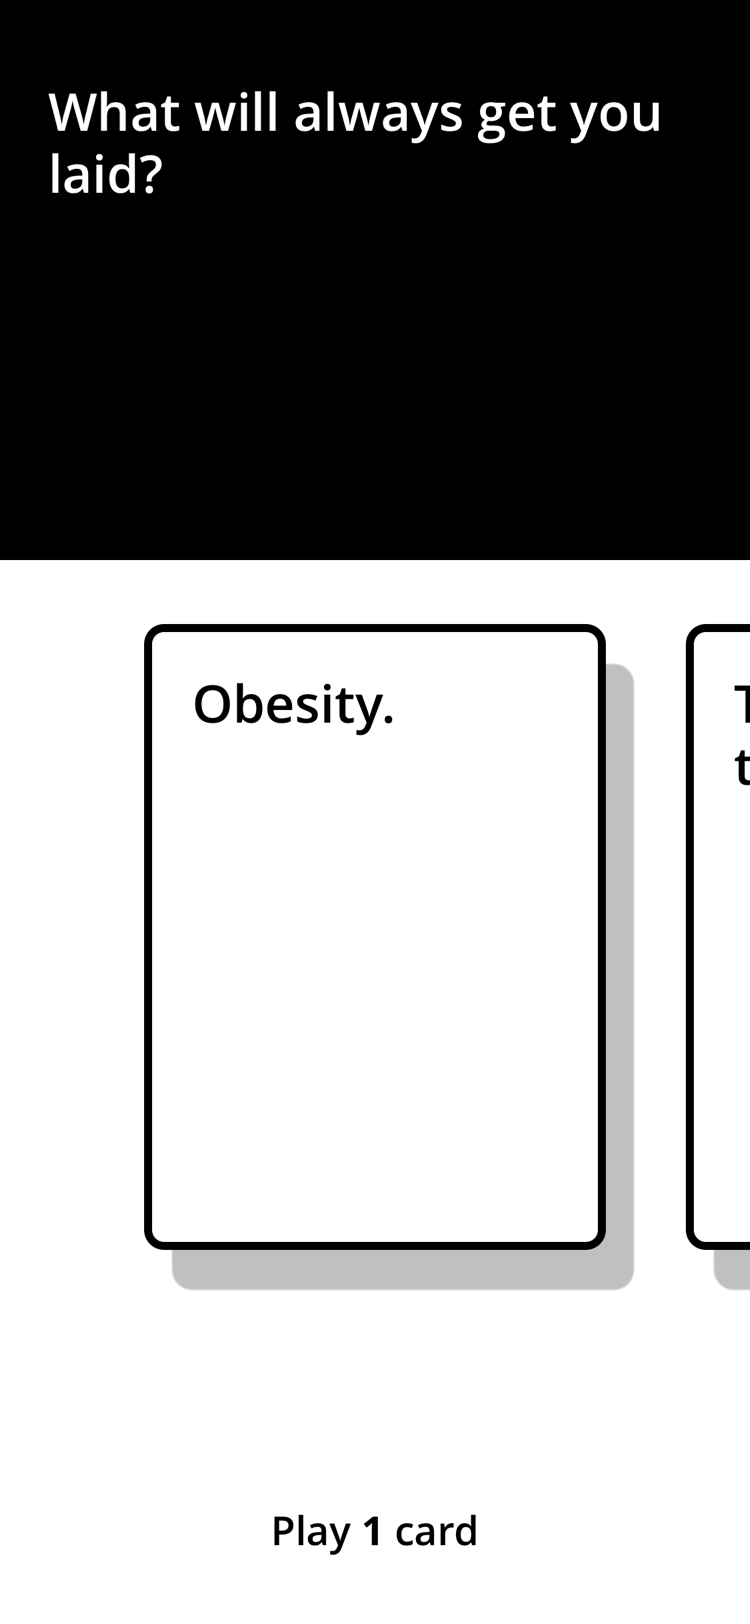
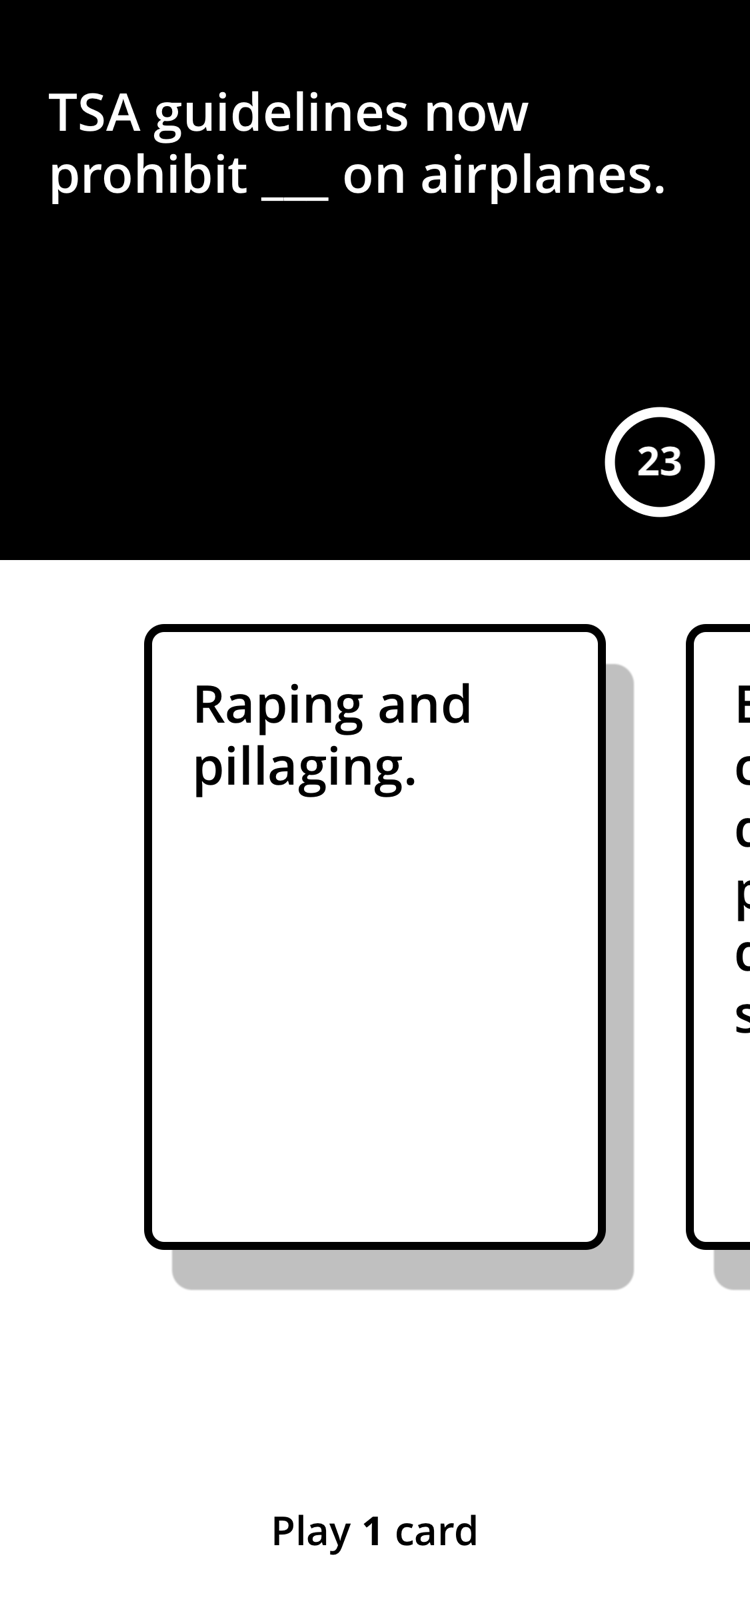
Added Timer
Timer is set to 20 seconds + (amount of cards to play TIMES 3 )

diff --git a/Cards Against Humanity.framer/framer/framer.vekter.js b/Cards Against Humanity.framer/framer/framer.vekter.js
@@ -1,1 +1,2 @@
-(function(scope) {var GameScreen = new Layer({"name":"GameScreen","backgroundColor":"rgba(255,255,255,1)","width":375,"x":840,"height":812,"constraintValues":{"left":840,"height":812,"heightFactor":1,"width":375,"widthFactor":1},"blending":"normal","clip":true,"borderStyle":"solid"});var blackCard = new Layer({"parent":GameScreen,"name":"blackCard","backgroundColor":"#000000","width":375,"height":280,"constraintValues":{"height":280,"centerAnchorX":0.5,"width":375,"right":0,"centerAnchorY":0.17241379310344829},"blending":"normal","clip":false,"borderStyle":"solid"});var __layer_0__ = new TextLayer({"parent":blackCard,"backgroundColor":null,"width":327,"x":24,"styledText":{"blocks":[{"inlineStyles":[{"startIndex":0,"endIndex":9,"css":{"fontSize":"26px","WebkitTextFillColor":"hsl(0, 0%, 100%)","letterSpacing":"0px","fontWeight":400,"lineHeight":"1.2","tabSize":4,"fontFamily":"\"OpenSans-Semibold\", sans-serif"}}],"text":"Card Text"}]},"height":216,"constraintValues":{"left":24,"height":216,"centerAnchorX":0.5,"width":327,"right":24,"top":40,"centerAnchorY":0.51071428571428568},"blending":"normal","autoSize":false,"y":40});var playCardsText = new TextLayer({"parent":GameScreen,"name":"playCardsText","backgroundColor":null,"width":335,"x":20,"styledText":{"blocks":[{"inlineStyles":[{"startIndex":0,"endIndex":5,"css":{"fontSize":"20px","WebkitTextFillColor":"#000000","letterSpacing":"0px","fontWeight":400,"lineHeight":"1.2","tabSize":4,"fontFamily":"\"OpenSans-Semibold\", sans-serif"}},{"startIndex":5,"endIndex":15,"css":{"fontSize":"20px","WebkitTextFillColor":"#000000","letterSpacing":"0px","fontWeight":700,"lineHeight":"1.2","tabSize":4,"fontFamily":"\"OpenSans-Bold\", \"Open Sans\", sans-serif"}},{"startIndex":15,"endIndex":25,"css":{"fontSize":"20px","WebkitTextFillColor":"#000000","letterSpacing":"0px","fontWeight":400,"lineHeight":"1.2","tabSize":4,"fontFamily":"\"OpenSans-Semibold\", sans-serif"}}],"text":"Play {numCards} card{plu}"}],"alignment":"center"},"height":24,"constraintValues":{"left":20,"height":24,"centerAnchorX":0.5,"width":335,"bottom":35,"right":20,"top":null,"centerAnchorY":0.94211822660098521},"blending":"normal","autoSize":false,"y":753});var ActionButton = new Layer({"parent":GameScreen,"name":"ActionButton","backgroundColor":"rgb(0, 0, 0)","width":335,"x":20,"height":54,"constraintValues":{"left":20,"height":54,"centerAnchorX":0.5,"width":335,"bottom":20,"right":20,"top":null,"centerAnchorY":0.94211822660098521},"blending":"normal","borderRadius":16,"opacity":0,"clip":false,"borderStyle":"solid","y":738});var __layer_1__ = new TextLayer({"parent":ActionButton,"backgroundColor":null,"width":68,"x":133,"styledText":{"blocks":[{"inlineStyles":[{"startIndex":0,"endIndex":6,"css":{"fontSize":"20px","WebkitTextFillColor":"hsl(0, 0%, 100%)","whiteSpace":"pre","fontWeight":400,"letterSpacing":"0px","tabSize":4,"fontFamily":"\"OpenSans-Semibold\", sans-serif","lineHeight":"1.2"}}],"text":"Button"}],"alignment":"center"},"height":24,"constraintValues":{"left":null,"height":24,"centerAnchorX":0.49850746268656715,"width":68,"top":null,"centerAnchorY":0.5},"blending":"normal","autoSize":true,"y":15});var __layer_2__ = new Layer({"backgroundColor":"rgba(255,255,255,1)","width":231,"x":492,"height":313,"constraintValues":null,"blending":"normal","clip":true,"borderStyle":"solid"});var whiteCard = new Layer({"parent":__layer_2__,"name":"whiteCard","shadows":[{"spread":0,"x":14,"type":"box","y":20,"blur":1,"color":"rgba(0,0,0,0.25)"}],"borderWidth":4,"backgroundColor":"hsl(0, 0%, 100%)","width":231,"borderColor":"#000000","height":313,"constraintValues":{"height":313,"centerAnchorX":0.5,"width":231,"bottom":0,"right":0,"centerAnchorY":0.5},"blending":"normal","borderRadius":10,"clip":false,"borderStyle":"solid"});var __layer_3__ = new TextLayer({"parent":whiteCard,"backgroundColor":null,"width":183,"x":24,"styledText":{"blocks":[{"inlineStyles":[{"startIndex":0,"endIndex":9,"css":{"fontSize":"26px","WebkitTextFillColor":"#000000","letterSpacing":"0px","fontWeight":400,"lineHeight":"1.2","tabSize":4,"fontFamily":"\"OpenSans-Semibold\", sans-serif"}}],"text":"Card Text"}]},"height":265,"constraintValues":{"left":24,"height":265,"centerAnchorX":0.48917748917748916,"width":183,"bottom":24,"right":24,"top":24,"centerAnchorY":0.48562300319488816},"blending":"normal","autoSize":false,"y":24});var UndoButton = new Layer({"name":"UndoButton","backgroundColor":"#DDDDDD","width":231,"x":492,"height":54,"constraintValues":null,"blending":"normal","borderRadius":16,"clip":false,"borderStyle":"solid","y":344});var __layer_4__ = new TextLayer({"parent":UndoButton,"backgroundColor":null,"width":54,"x":88,"styledText":{"blocks":[{"inlineStyles":[{"startIndex":0,"endIndex":4,"css":{"fontSize":"20px","WebkitTextFillColor":"#000000","whiteSpace":"pre","fontWeight":400,"letterSpacing":"0px","tabSize":4,"fontFamily":"\"OpenSans-Semibold\", sans-serif","lineHeight":"1.2"}}],"text":"Undo"}],"alignment":"center"},"height":24,"constraintValues":{"left":null,"height":24,"centerAnchorX":0.49850746268656715,"width":54,"top":null,"centerAnchorY":0.5},"blending":"normal","autoSize":true,"y":15});var setupScreen = new Layer({"name":"setupScreen","backgroundColor":"rgba(255,255,255,1)","width":375,"height":812,"constraintValues":{"height":812,"heightFactor":1,"width":375,"widthFactor":1},"blending":"normal","clip":true,"borderStyle":"solid"});var __layer_5__ = new TextLayer({"parent":setupScreen,"name":"namePromt","backgroundColor":null,"width":197,"x":89,"styledText":{"blocks":[{"inlineStyles":[{"startIndex":0,"endIndex":16,"css":{"fontSize":"20px","WebkitTextFillColor":"#000000","whiteSpace":"pre","fontWeight":400,"letterSpacing":"0px","tabSize":4,"fontFamily":"\"OpenSans-Semibold\", sans-serif","lineHeight":"1.2"}}],"text":"Gimme your name…"}],"alignment":"center"},"height":24,"constraintValues":{"left":null,"height":24,"centerAnchorX":0.5,"width":197,"top":111,"centerAnchorY":0.15147783251231528},"blending":"normal","autoSize":true,"y":111});var __layer_6__ = new Layer({"parent":setupScreen,"name":"joinButton","backgroundColor":"rgb(0, 0, 0)","width":335,"x":20,"height":54,"constraintValues":{"left":20,"height":54,"centerAnchorX":0.5,"width":335,"bottom":20,"right":20,"top":null,"centerAnchorY":0.94211822660098521},"blending":"normal","borderRadius":16,"clip":false,"borderStyle":"solid","y":738});var __layer_7__ = new TextLayer({"parent":__layer_6__,"backgroundColor":null,"width":38,"x":148,"styledText":{"blocks":[{"inlineStyles":[{"startIndex":0,"endIndex":4,"css":{"fontSize":"20px","WebkitTextFillColor":"hsl(0, 0%, 100%)","whiteSpace":"pre","fontWeight":400,"letterSpacing":"0px","tabSize":4,"fontFamily":"\"OpenSans-Semibold\", sans-serif","lineHeight":"1.2"}}],"text":"Join"}],"alignment":"center"},"height":24,"constraintValues":{"left":null,"height":24,"centerAnchorX":0.49850746268656715,"width":38,"top":null,"centerAnchorY":0.5},"blending":"normal","autoSize":true,"y":15});if(__layer_5__ !== undefined){__layer_5__.__framerInstanceInfo = {"framerClass":"TextLayer","hash":"#vekter|__layer_5__","vekterClass":"TextNode","text":"Gimme your name…"}};if(GameScreen !== undefined){GameScreen.__framerInstanceInfo = {"deviceName":"Apple iPhone X","framerClass":"Layer","hash":"#vekter|GameScreen","targetName":"GameScreen","vekterClass":"FrameNode","deviceType":"apple-iphone-x-space-gray"}};if(whiteCard !== undefined){whiteCard.__framerInstanceInfo = {"framerClass":"Layer","hash":"#vekter|whiteCard","targetName":"whiteCard","vekterClass":"FrameNode"}};if(__layer_7__ !== undefined){__layer_7__.__framerInstanceInfo = {"framerClass":"TextLayer","hash":"#vekter|__layer_7__","vekterClass":"TextNode","text":"Join"}};if(__layer_2__ !== undefined){__layer_2__.__framerInstanceInfo = {"hash":"#vekter|__layer_2__","vekterClass":"FrameNode","framerClass":"Layer"}};if(playCardsText !== undefined){playCardsText.__framerInstanceInfo = {"framerClass":"TextLayer","hash":"#vekter|playCardsText","targetName":"playCardsText","vekterClass":"TextNode","text":"Play {numCards} card{plu}"}};if(__layer_0__ !== undefined){__layer_0__.__framerInstanceInfo = {"framerClass":"TextLayer","hash":"#vekter|__layer_0__","vekterClass":"TextNode","text":"Card Text"}};if(UndoButton !== undefined){UndoButton.__framerInstanceInfo = {"framerClass":"Layer","hash":"#vekter|UndoButton","targetName":"UndoButton","vekterClass":"FrameNode"}};if(setupScreen !== undefined){setupScreen.__framerInstanceInfo = {"deviceName":"Apple iPhone X","framerClass":"Layer","hash":"#vekter|setupScreen","targetName":"setupScreen","vekterClass":"FrameNode","deviceType":"apple-iphone-x-space-gray"}};if(ActionButton !== undefined){ActionButton.__framerInstanceInfo = {"framerClass":"Layer","hash":"#vekter|ActionButton","targetName":"ActionButton","vekterClass":"FrameNode"}};if(__layer_1__ !== undefined){__layer_1__.__framerInstanceInfo = {"framerClass":"TextLayer","hash":"#vekter|__layer_1__","vekterClass":"TextNode","text":"Button"}};if(__layer_4__ !== undefined){__layer_4__.__framerInstanceInfo = {"framerClass":"TextLayer","hash":"#vekter|__layer_4__","vekterClass":"TextNode","text":"Undo"}};if(__layer_6__ !== undefined){__layer_6__.__framerInstanceInfo = {"hash":"#vekter|__layer_6__","vekterClass":"FrameNode","framerClass":"Layer"}};if(__layer_3__ !== undefined){__layer_3__.__framerInstanceInfo = {"framerClass":"TextLayer","hash":"#vekter|__layer_3__","vekterClass":"TextNode","text":"Card Text"}};if(blackCard !== undefined){blackCard.__framerInstanceInfo = {"framerClass":"Layer","hash":"#vekter|blackCard","targetName":"blackCard","vekterClass":"FrameNode"}};if (scope["__vekterVariables"]) { scope["__vekterVariables"].map(function(variable) { delete scope[variable] } ) };Object.assign(scope, {GameScreen, blackCard, playCardsText, ActionButton, whiteCard, UndoButton, setupScreen});scope["__vekterVariables"] = ["GameScreen", "blackCard", "playCardsText", "ActionButton", "whiteCard", "UndoButton", "setupScreen"];if (typeof Framer.CurrentContext.layout === 'function') {Framer.CurrentContext.layout()};})(window);
+(function(scope) {var GameScreen = new Layer({"name":"GameScreen","backgroundColor":"rgba(255,255,255,1)","width":375,"x":840,"height":812,"constraintValues":{"left":840,"height":812,"heightFactor":1,"width":375,"widthFactor":1},"blending":"normal","clip":true,"borderStyle":"solid"});var blackCard = new Layer({"parent":GameScreen,"name":"blackCard","backgroundColor":"#000000","width":375,"height":280,"constraintValues":{"height":280,"centerAnchorX":0.5,"width":375,"right":0,"centerAnchorY":0.17241379310344829},"blending":"normal","clip":false,"borderStyle":"solid"});var __layer_0__ = new TextLayer({"parent":blackCard,"backgroundColor":null,"width":327,"x":24,"styledText":{"blocks":[{"inlineStyles":[{"startIndex":0,"endIndex":9,"css":{"fontSize":"26px","WebkitTextFillColor":"hsl(0, 0%, 100%)","letterSpacing":"0px","fontWeight":400,"lineHeight":"1.2","tabSize":4,"fontFamily":"\"OpenSans-Semibold\", sans-serif"}}],"text":"Card Text"}]},"height":216,"constraintValues":{"left":24,"height":216,"centerAnchorX":0.5,"width":327,"right":24,"top":40,"centerAnchorY":0.51071428571428568},"blending":"normal","autoSize":false,"y":40});var countDownFrame = new Layer({"parent":blackCard,"name":"countDownFrame","backgroundColor":null,"width":50,"x":305,"height":50,"constraintValues":{"left":null,"height":50,"centerAnchorX":0.88,"width":50,"bottom":24,"right":20,"top":null,"centerAnchorY":0.82499999999999996},"blending":"normal","clip":false,"borderStyle":"solid","y":206});var __layer_1__ = new SVGLayer({"parent":countDownFrame,"name":".SVGLayer","backgroundColor":null,"width":50,"stroke":"hsl(0, 0%, 100%)","strokeWidth":5,"htmlIntrinsicSize":{"height":50,"width":50},"rotation":null,"height":50,"opacity":null,"svg":"<svg xmlns=\"http:\/\/www.w3.org\/2000\/svg\" width=\"50\" height=\"50\"><path d=\"M 25 0 C 38.807 0 50 11.193 50 25 C 50 38.807 38.807 50 25 50 C 11.193 50 0 38.807 0 25 C 0 11.193 11.193 0 25 0 Z\" id=\"id_VVLZ_nE5M\" fill=\"transparent\" stroke-width=\"5\" stroke=\"hsl(0, 0%, 100%)\" name=\"countDown\"><\/path><\/svg>"});var countDown;if(__layer_1__.elements !== undefined){countDown = __layer_1__.elements["id_VVLZ_nE5M"];
+};var countDownNumber = new TextLayer({"parent":countDownFrame,"name":"countDownNumber","backgroundColor":null,"width":24,"x":13,"styledText":{"blocks":[{"inlineStyles":[{"startIndex":0,"endIndex":2,"css":{"fontSize":"20px","WebkitTextFillColor":"hsl(0, 0%, 100%)","whiteSpace":"pre","fontWeight":700,"letterSpacing":"0px","tabSize":4,"fontFamily":"\"OpenSans-Bold\", \"Open Sans\", sans-serif","lineHeight":"1.2"}}],"text":"10"}],"alignment":"center"},"height":24,"constraintValues":{"left":null,"height":24,"centerAnchorX":0.5,"width":24,"top":null,"centerAnchorY":0.47999999999999998},"blending":"normal","autoSize":true,"y":12});var playCardsText = new TextLayer({"parent":GameScreen,"name":"playCardsText","backgroundColor":null,"width":335,"x":20,"styledText":{"blocks":[{"inlineStyles":[{"startIndex":0,"endIndex":5,"css":{"fontSize":"20px","WebkitTextFillColor":"#000000","letterSpacing":"0px","fontWeight":400,"lineHeight":"1.2","tabSize":4,"fontFamily":"\"OpenSans-Semibold\", sans-serif"}},{"startIndex":5,"endIndex":15,"css":{"fontSize":"20px","WebkitTextFillColor":"#000000","letterSpacing":"0px","fontWeight":700,"lineHeight":"1.2","tabSize":4,"fontFamily":"\"OpenSans-Bold\", \"Open Sans\", sans-serif"}},{"startIndex":15,"endIndex":25,"css":{"fontSize":"20px","WebkitTextFillColor":"#000000","letterSpacing":"0px","fontWeight":400,"lineHeight":"1.2","tabSize":4,"fontFamily":"\"OpenSans-Semibold\", sans-serif"}}],"text":"Play {numCards} card{plu}"}],"alignment":"center"},"height":24,"constraintValues":{"left":20,"height":24,"centerAnchorX":0.5,"width":335,"bottom":35,"right":20,"top":null,"centerAnchorY":0.94211822660098521},"blending":"normal","autoSize":false,"y":753});var ActionButton = new Layer({"parent":GameScreen,"name":"ActionButton","backgroundColor":"rgb(0, 0, 0)","width":335,"x":20,"height":54,"constraintValues":{"left":20,"height":54,"centerAnchorX":0.5,"width":335,"bottom":20,"right":20,"top":null,"centerAnchorY":0.94211822660098521},"blending":"normal","borderRadius":16,"opacity":0,"clip":false,"borderStyle":"solid","y":738});var __layer_2__ = new TextLayer({"parent":ActionButton,"backgroundColor":null,"width":68,"x":133,"styledText":{"blocks":[{"inlineStyles":[{"startIndex":0,"endIndex":6,"css":{"fontSize":"20px","WebkitTextFillColor":"hsl(0, 0%, 100%)","whiteSpace":"pre","fontWeight":400,"letterSpacing":"0px","tabSize":4,"fontFamily":"\"OpenSans-Semibold\", sans-serif","lineHeight":"1.2"}}],"text":"Button"}],"alignment":"center"},"height":24,"constraintValues":{"left":null,"height":24,"centerAnchorX":0.49850746268656715,"width":68,"top":null,"centerAnchorY":0.5},"blending":"normal","autoSize":true,"y":15});var __layer_3__ = new Layer({"backgroundColor":"rgba(255,255,255,1)","width":231,"x":492,"height":313,"constraintValues":null,"blending":"normal","clip":true,"borderStyle":"solid"});var whiteCard = new Layer({"parent":__layer_3__,"name":"whiteCard","shadows":[{"spread":0,"x":14,"type":"box","y":20,"blur":1,"color":"rgba(0,0,0,0.25)"}],"borderWidth":4,"backgroundColor":"hsl(0, 0%, 100%)","width":231,"borderColor":"#000000","height":313,"constraintValues":{"height":313,"centerAnchorX":0.5,"width":231,"bottom":0,"right":0,"centerAnchorY":0.5},"blending":"normal","borderRadius":10,"clip":false,"borderStyle":"solid"});var __layer_4__ = new TextLayer({"parent":whiteCard,"backgroundColor":null,"width":183,"x":24,"styledText":{"blocks":[{"inlineStyles":[{"startIndex":0,"endIndex":9,"css":{"fontSize":"26px","WebkitTextFillColor":"#000000","letterSpacing":"0px","fontWeight":400,"lineHeight":"1.2","tabSize":4,"fontFamily":"\"OpenSans-Semibold\", sans-serif"}}],"text":"Card Text"}]},"height":265,"constraintValues":{"left":24,"height":265,"centerAnchorX":0.48917748917748916,"width":183,"bottom":24,"right":24,"top":24,"centerAnchorY":0.48562300319488816},"blending":"normal","autoSize":false,"y":24});var UndoButton = new Layer({"name":"UndoButton","backgroundColor":"#DDDDDD","width":231,"x":492,"height":54,"constraintValues":null,"blending":"normal","borderRadius":16,"clip":false,"borderStyle":"solid","y":344});var __layer_5__ = new TextLayer({"parent":UndoButton,"backgroundColor":null,"width":54,"x":88,"styledText":{"blocks":[{"inlineStyles":[{"startIndex":0,"endIndex":4,"css":{"fontSize":"20px","WebkitTextFillColor":"#000000","whiteSpace":"pre","fontWeight":400,"letterSpacing":"0px","tabSize":4,"fontFamily":"\"OpenSans-Semibold\", sans-serif","lineHeight":"1.2"}}],"text":"Undo"}],"alignment":"center"},"height":24,"constraintValues":{"left":null,"height":24,"centerAnchorX":0.49850746268656715,"width":54,"top":null,"centerAnchorY":0.5},"blending":"normal","autoSize":true,"y":15});var setupScreen = new Layer({"name":"setupScreen","backgroundColor":"rgba(255,255,255,1)","width":375,"height":812,"constraintValues":{"height":812,"heightFactor":1,"width":375,"widthFactor":1},"blending":"normal","clip":true,"borderStyle":"solid"});var __layer_6__ = new TextLayer({"parent":setupScreen,"name":"namePromt","backgroundColor":null,"width":197,"x":89,"styledText":{"blocks":[{"inlineStyles":[{"startIndex":0,"endIndex":16,"css":{"fontSize":"20px","WebkitTextFillColor":"#000000","whiteSpace":"pre","fontWeight":400,"letterSpacing":"0px","tabSize":4,"fontFamily":"\"OpenSans-Semibold\", sans-serif","lineHeight":"1.2"}}],"text":"Gimme your name…"}],"alignment":"center"},"height":24,"constraintValues":{"left":null,"height":24,"centerAnchorX":0.5,"width":197,"top":111,"centerAnchorY":0.15147783251231528},"blending":"normal","autoSize":true,"y":111});var __layer_7__ = new Layer({"parent":setupScreen,"name":"joinButton","backgroundColor":"rgb(0, 0, 0)","width":335,"x":20,"height":54,"constraintValues":{"left":20,"height":54,"centerAnchorX":0.5,"width":335,"bottom":20,"right":20,"top":null,"centerAnchorY":0.94211822660098521},"blending":"normal","borderRadius":16,"clip":false,"borderStyle":"solid","y":738});var __layer_8__ = new TextLayer({"parent":__layer_7__,"backgroundColor":null,"width":38,"x":148,"styledText":{"blocks":[{"inlineStyles":[{"startIndex":0,"endIndex":4,"css":{"fontSize":"20px","WebkitTextFillColor":"hsl(0, 0%, 100%)","whiteSpace":"pre","fontWeight":400,"letterSpacing":"0px","tabSize":4,"fontFamily":"\"OpenSans-Semibold\", sans-serif","lineHeight":"1.2"}}],"text":"Join"}],"alignment":"center"},"height":24,"constraintValues":{"left":null,"height":24,"centerAnchorX":0.49850746268656715,"width":38,"top":null,"centerAnchorY":0.5},"blending":"normal","autoSize":true,"y":15});if(__layer_5__ !== undefined){__layer_5__.__framerInstanceInfo = {"framerClass":"TextLayer","hash":"#vekter|__layer_5__","vekterClass":"TextNode","text":"Undo"}};if(GameScreen !== undefined){GameScreen.__framerInstanceInfo = {"deviceName":"Apple iPhone X","framerClass":"Layer","hash":"#vekter|GameScreen","targetName":"GameScreen","vekterClass":"FrameNode","deviceType":"apple-iphone-x-space-gray"}};if(whiteCard !== undefined){whiteCard.__framerInstanceInfo = {"framerClass":"Layer","hash":"#vekter|whiteCard","targetName":"whiteCard","vekterClass":"FrameNode"}};if(__layer_7__ !== undefined){__layer_7__.__framerInstanceInfo = {"hash":"#vekter|__layer_7__","vekterClass":"FrameNode","framerClass":"Layer"}};if(__layer_2__ !== undefined){__layer_2__.__framerInstanceInfo = {"framerClass":"TextLayer","hash":"#vekter|__layer_2__","vekterClass":"TextNode","text":"Button"}};if(__layer_8__ !== undefined){__layer_8__.__framerInstanceInfo = {"framerClass":"TextLayer","hash":"#vekter|__layer_8__","vekterClass":"TextNode","text":"Join"}};if(playCardsText !== undefined){playCardsText.__framerInstanceInfo = {"framerClass":"TextLayer","hash":"#vekter|playCardsText","targetName":"playCardsText","vekterClass":"TextNode","text":"Play {numCards} card{plu}"}};if(__layer_0__ !== undefined){__layer_0__.__framerInstanceInfo = {"framerClass":"TextLayer","hash":"#vekter|__layer_0__","vekterClass":"TextNode","text":"Card Text"}};if(countDownNumber !== undefined){countDownNumber.__framerInstanceInfo = {"framerClass":"TextLayer","hash":"#vekter|countDownNumber","targetName":"countDownNumber","vekterClass":"TextNode","text":"10"}};if(UndoButton !== undefined){UndoButton.__framerInstanceInfo = {"framerClass":"Layer","hash":"#vekter|UndoButton","targetName":"UndoButton","vekterClass":"FrameNode"}};if(countDownFrame !== undefined){countDownFrame.__framerInstanceInfo = {"framerClass":"Layer","hash":"#vekter|countDownFrame","targetName":"countDownFrame","vekterClass":"FrameNode"}};if(countDown !== undefined){countDown.__framerInstanceInfo = {"framerClass":"SVGPath","hash":"#vekter|countDown","targetName":"countDown","vekterClass":"OvalShapeNode"}};if(setupScreen !== undefined){setupScreen.__framerInstanceInfo = {"deviceName":"Apple iPhone X","framerClass":"Layer","hash":"#vekter|setupScreen","targetName":"setupScreen","vekterClass":"FrameNode","deviceType":"apple-iphone-x-space-gray"}};if(ActionButton !== undefined){ActionButton.__framerInstanceInfo = {"framerClass":"Layer","hash":"#vekter|ActionButton","targetName":"ActionButton","vekterClass":"FrameNode"}};if(__layer_1__ !== undefined){__layer_1__.__framerInstanceInfo = {"hash":"#vekter|__layer_1__","vekterClass":"OvalShapeNode","framerClass":"SVGLayer"}};if(__layer_4__ !== undefined){__layer_4__.__framerInstanceInfo = {"framerClass":"TextLayer","hash":"#vekter|__layer_4__","vekterClass":"TextNode","text":"Card Text"}};if(__layer_6__ !== undefined){__layer_6__.__framerInstanceInfo = {"framerClass":"TextLayer","hash":"#vekter|__layer_6__","vekterClass":"TextNode","text":"Gimme your name…"}};if(__layer_3__ !== undefined){__layer_3__.__framerInstanceInfo = {"hash":"#vekter|__layer_3__","vekterClass":"FrameNode","framerClass":"Layer"}};if(blackCard !== undefined){blackCard.__framerInstanceInfo = {"framerClass":"Layer","hash":"#vekter|blackCard","targetName":"blackCard","vekterClass":"FrameNode"}};if (scope["__vekterVariables"]) { scope["__vekterVariables"].map(function(variable) { delete scope[variable] } ) };Object.assign(scope, {GameScreen, blackCard, countDownFrame, countDown, countDownNumber, playCardsText, ActionButton, whiteCard, UndoButton, setupScreen});scope["__vekterVariables"] = ["GameScreen", "blackCard", "countDownFrame", "countDown", "countDownNumber", "playCardsText", "ActionButton", "whiteCard", "UndoButton", "setupScreen"];if (typeof Framer.CurrentContext.layout === 'function') {Framer.CurrentContext.layout()};})(window);
